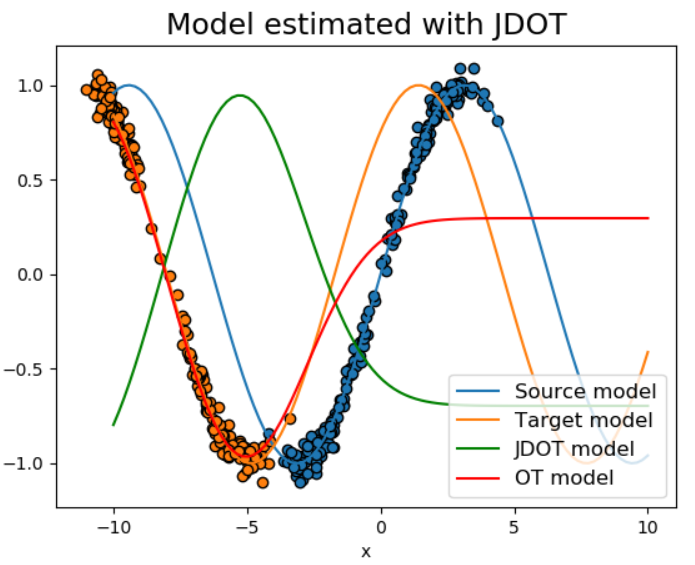
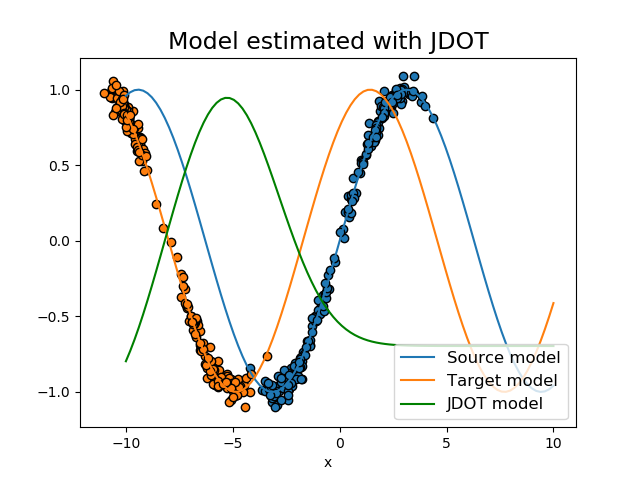
'halo'

Changed region(s): [[0.0, 0.0, 1.0, 0.9688], [0.5, 0.9688, 0.5312, 1.0]]

diff --git a/visu_jdot_fail.py b/visu_jdot_fail.py
@@ -44,7 +44,7 @@ def get_data(n,ntest):
     xt[:n2,:]-=3
       
     yt=sigma*np.random.randn(n,1)+np.sin(xt/2)
-    yt = -yt
+    yt = yt
     xt-=8
     
     return xs,ys,xt,yt
@@ -52,7 +52,7 @@ def get_data(n,ntest):
 xs,ys,xt,yt=get_data(n,ntest)
 
 fs_s = lambda x: np.sin(x/2)
-fs_t = lambda x: -np.sin((x+8)/2)
+fs_t = lambda x: np.sin((x+8)/2)
 
                        
 xvisu=np.linspace(-10,10,100)
@@ -124,7 +124,7 @@ pl.scatter(xt,yt,edgecolors='k')
 pl.plot(xvisu,fs_s(xvisu),label='Source model')
 pl.plot(xvisu,fs_t(xvisu),label='Target model')
 pl.plot(xvisu,ypred,'g',label='JDOT model')
-pl.plot(xvisu,ypred_ot,'r',label='OT model')
+#pl.plot(xvisu,ypred_ot,'r',label='OT model')
 pl.xlabel('x')
 fs=17
 
